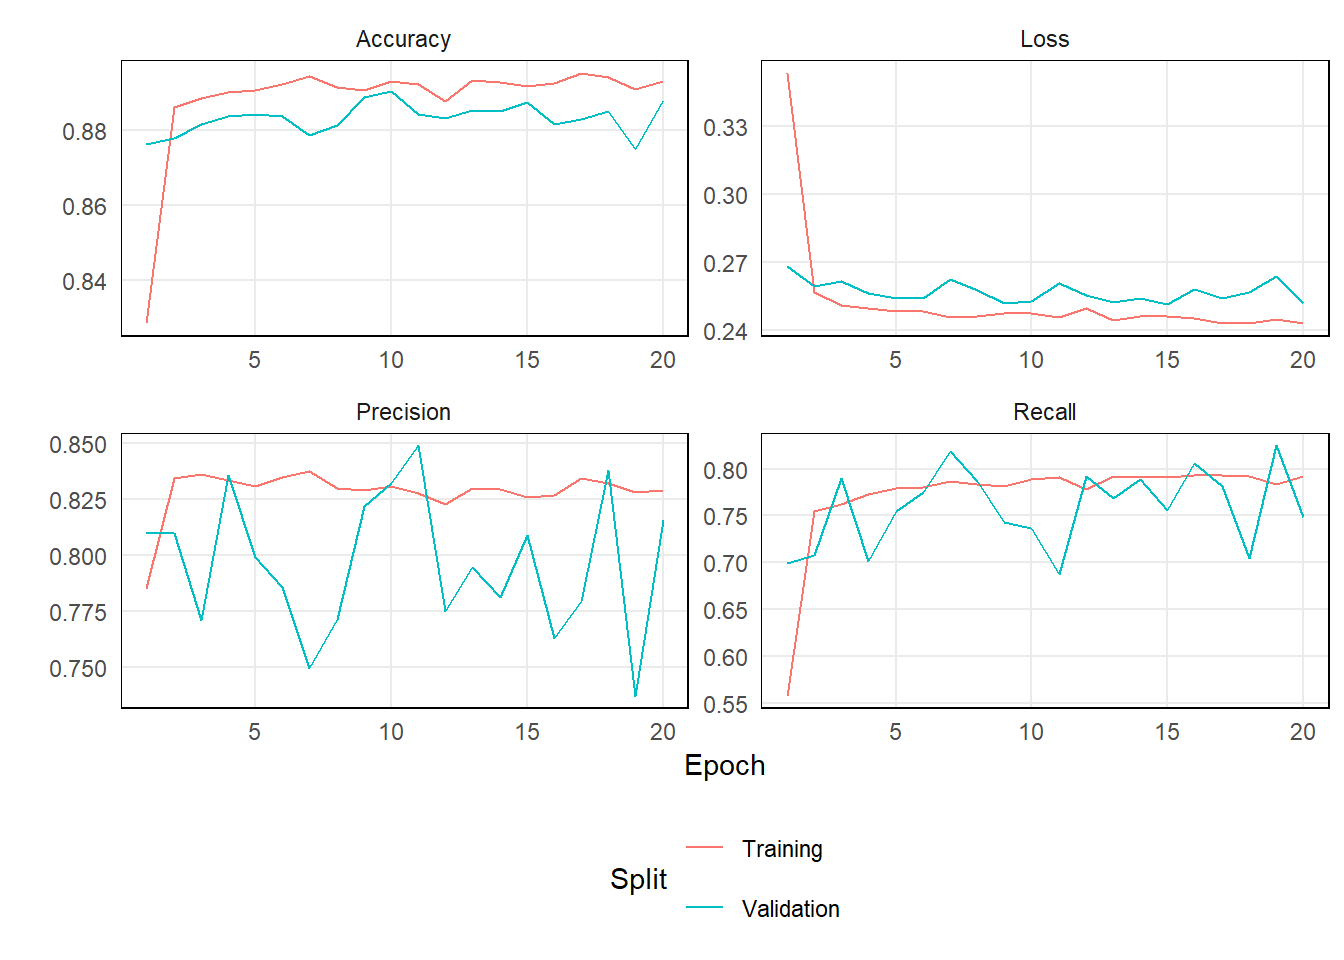
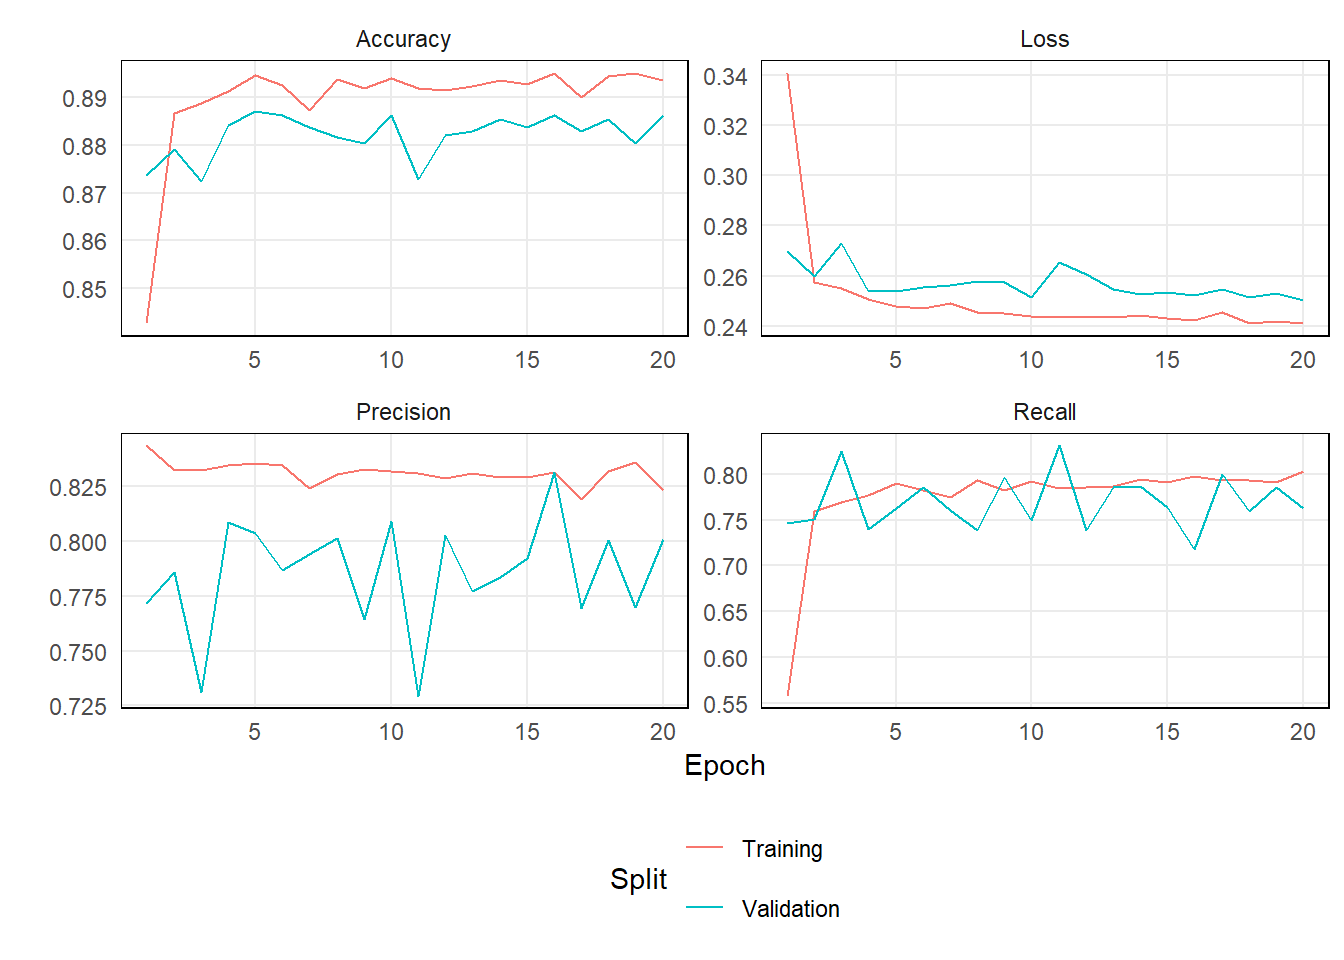
fixed pipes

diff --git a/content/post/2024-01-13-quick-start-guide-to-neural-networks-in-r-with-keras-and-tensorflow/index.html b/content/post/2024-01-13-quick-start-guide-to-neural-networks-in-r-with-keras-and-tensorflow/index.html
@@ -5,8 +5,12 @@ date: '2024-01-12'
 slug: []
 categories:
   - Neural Networks
+  - Machine Learning
+  - Data Science
 tags:
   - Neural Networks
+  - Machine Learning
+  - Data Science
 cover: /media/tfk.png
 ---
 
@@ -23,7 +27,7 @@ cover: /media/tfk.png
 <h2>Prerequisites</h2>
 <p>Since {Keras} is a Python-based package, you’ll need to ensure you have Python installed. You can download Python from <a href="https://www.python.org/downloads/">the official Python website</a>. After setting up Python, you’ll need to install Keras and {TensorFlow} in R. The following explanation, taken from the {Keras} documentation, details the installation process:</p>
 <blockquote>
-<p>This function will install Tensorflow and all Keras dependencies. This is a thin wrapper around <code>tensorflow::install_tensorflow()</code>, with the only difference being that this includes by default additional extra packages that keras expects, and the default version of tensorflow installed by <code>install_keras()</code> may at times be different from the default installed by <code>install_tensorflow()</code>. The default version of tensorflow installed by <code>install_keras()</code> is “2.13”.</p>
+<p>This function will install Tensorflow and all Keras dependencies. This is a thin wrapper around <code>tensorflow::install_tensorflow()</code>, with the only difference being that this includes by default additional extra packages that keras expects, and the default version of tensorflow installed by <code>install_keras()</code> may at times be different from the default installed by <code>install_tensorflow()</code>.</p>
 </blockquote>
 <pre class="r"><code>install.packages(&quot;keras&quot;)
 install_keras()</code></pre>
@@ -534,19 +538,19 @@ data &lt;- tibble(
 </div>
 <div id="neural-network" class="section level2">
 <h2>Neural Network</h2>
-<p><strong>Split into test and train</strong></p>
-<pre class="r"><code>library(keras)</code></pre>
-<pre><code>## Warning: package &#39;keras&#39; was built under R version 4.3.2</code></pre>
-<pre class="r"><code>set.seed(0)
+<p><strong>Split into Test and Train</strong></p>
+<pre class="r"><code>library(keras)
+
+set.seed(0)
 
 split_index &lt;- sample(1:nrow(data), size = 0.8 * nrow(data))
 train_data &lt;- data[split_index, ]
 test_data &lt;- data[-split_index, ]</code></pre>
 <div id="define-the-model-architecture" class="section level3">
 <h3>Define the Model Architecture</h3>
-<pre class="r"><code>model &lt;- keras_model_sequential() %&gt;%
-  layer_dense(units = 100, activation = &#39;relu&#39;, input_shape = ncol(train_data) - 1) %&gt;%
-  layer_dense(units = 100, activation = &#39;relu&#39;) %&gt;%
+<pre class="r"><code>model &lt;- keras_model_sequential() |&gt;
+  layer_dense(units = 100, activation = &#39;relu&#39;, input_shape = ncol(train_data) - 1) |&gt;
+  layer_dense(units = 100, activation = &#39;relu&#39;) |&gt;
   layer_dense(units = 1, activation = &#39;sigmoid&#39;)</code></pre>
 <p><strong>Model Architecture Details</strong></p>
 <ul>
@@ -568,9 +572,9 @@ test_data &lt;- data[-split_index, ]</code></pre>
 </ul>
 </div>
 <div id="compile-the-model" class="section level3">
-<h3>Compile the model</h3>
+<h3>Compile the Model</h3>
 <p>The next block of code “compiles” the model and configures it for training. It sets up up the optimizer, loss function, and metrics:</p>
-<pre class="r"><code>model %&gt;% compile(
+<pre class="r"><code>model |&gt; compile(
   optimizer = &#39;adam&#39;,
   loss = &#39;binary_crossentropy&#39;,
   metrics = c(&#39;accuracy&#39;, 
@@ -606,9 +610,9 @@ test_data &lt;- data[-split_index, ]</code></pre>
 </div>
 </div>
 <div id="fitting-the-model" class="section level2">
-<h2>Fitting the model</h2>
+<h2>Fitting the Model</h2>
 <p>The following code block is for fitting (training) the neural network model. It specifies the training data, number of training cycles (epochs), and other important parameters:</p>
-<pre class="r"><code>history &lt;- model %&gt;% fit(
+<pre class="r"><code>history &lt;- model |&gt; fit(
   x = as.matrix(train_data[,-7]),
   y = as.matrix(train_data[,7]),
   epochs = 20,
@@ -656,12 +660,12 @@ test_data &lt;- data[-split_index, ]</code></pre>
 test_data |&gt; mutate(predictions = predict(model, as.matrix(test_data[,-7]), verbose = 0)[,1]) |&gt; 
   mutate(binary_prediction = as.factor(ifelse(predictions &gt; .5,1,0))) </code></pre>
 <div id="evaluating-the-model" class="section level2">
-<h2>Evaluating the model</h2>
+<h2>Evaluating the Model</h2>
 <p>We can find the accuracy, prediction, and recall using {keras} or…</p>
-<pre class="r"><code>out &lt;- model %&gt;% evaluate(as.matrix(test_data[,-7]), test_data[,7]$outcome, verbose = FALSE) 
+<pre class="r"><code>out &lt;- model |&gt; evaluate(as.matrix(test_data[,-7]), test_data[,7]$outcome, verbose = FALSE) 
 out </code></pre>
 <pre><code>##      loss  accuracy precision    recall 
-## 0.2398572 0.8923611 0.8254620 0.7528090</code></pre>
+## 0.2405091 0.8963293 0.8256513 0.7715356</code></pre>
 <p>…using {yardstick}.</p>
 <pre class="r"><code>library(yardstick)
 classification_metrics &lt;- metric_set(accuracy, precision, recall)
@@ -1123,13 +1127,13 @@ test_data_w_preds |&gt;
   <tbody class="gt_table_body">
     <tr><td headers=".metric" class="gt_row gt_left">accuracy</td>
 <td headers=".estimator" class="gt_row gt_left">binary</td>
-<td headers=".estimate" class="gt_row gt_right">89.15%</td></tr>
+<td headers=".estimate" class="gt_row gt_right">89.55%</td></tr>
     <tr><td headers=".metric" class="gt_row gt_left">precision</td>
 <td headers=".estimator" class="gt_row gt_left">binary</td>
-<td headers=".estimate" class="gt_row gt_right">91.28%</td></tr>
+<td headers=".estimate" class="gt_row gt_right">91.87%</td></tr>
     <tr><td headers=".metric" class="gt_row gt_left">recall</td>
 <td headers=".estimator" class="gt_row gt_left">binary</td>
-<td headers=".estimate" class="gt_row gt_right">94.20%</td></tr>
+<td headers=".estimate" class="gt_row gt_right">94.07%</td></tr>
   </tbody>
   
   
@@ -1139,7 +1143,7 @@ test_data_w_preds |&gt;
 <p><img src="{{< blogdown/postref >}}index_files/figure-html/unnamed-chunk-13-1.png" width="672" /></p>
 </div>
 <div id="thats-a-wrap" class="section level2">
-<h2>That’s a wrap</h2>
+<h2>That’s a Wrap</h2>
 <p>I’ve tried to provide step-by-step introductions to implement a neural network for in R using the {Keras} package. We walked through generating reproducible sample data, defining a simple neural network architecture, training the model, making predictions on new data, and evaluating model performance. This guide should equip beginners with the initial skills needed to start building and applying neural networks to their own tabular data.</p>
 <p>While neural networks can appear complex, breaking the process down into digestible steps makes them more accessible. With the right data preprocessing, model configuration, training parameters and performance metrics, neural networks can be powerful tools for tackling complex data patterns. The R ecosystem, with packages like {Keras} and {Tensorflow}, provides a convenient platform for leveraging the strengths of neural networks. By following this guide and adjusting the components to their specific use case, you should now (hopefully) be able to start neural network modeling in R.</p>
 </div>

diff --git a/content/post/2021-12-01-advent-of-code-2021/index.html b/content/post/2021-12-01-advent-of-code-2021/index.html
@@ -5,7 +5,7 @@ date: '2021-12-01'
 slug: []
 categories:
   - R
-  - datascience
+  - Data Science
   - learning
   - teaching
 tags:
@@ -16,7 +16,6 @@ tags:
 cover: /media/advent2.JPG
 ---
 
-<script src="{{< blogdown/postref >}}index_files/header-attrs/header-attrs.js"></script>
 
 
 <p>Every year, the great team at <a href="adventofcode.com">Advent of Code</a> lead by <a href="https://twitter.com/ericwastl">ericwastl</a> develops an “Advent calendar of small programming puzzles for a variety of skill sets and skill levels that can be solved in any programming language you like.”</p>
@@ -1214,34 +1213,43 @@ tictoc::toc()</code></pre>
   separate(col = directions, into = c(&quot;x1&quot;, &quot;y1&quot;, &quot;x2&quot;, &quot;y2&quot;), sep = &quot;,&quot;, convert = T) %&gt;% 
   select(x1,x2,y1,y2) 
 
-create_lines &lt;- function(move){
+create_lines &lt;- function(lines){
+
+move &lt;- lines
 
 if(move$y1==move$y2) {
   xlow  &lt;- min(move$x1, min(move$x2))
   xhigh &lt;- max(move$x1, min(move$x2))
   ylow  &lt;- min(move$y1, min(move$y2))
   yhigh &lt;- max(move$y1, min(move$y2))
-  byrow &lt;- T # for horizontal vents
+  byrow &lt;- T
 } else if (move$x1 == move$x2) {
   ylow  &lt;- min(move$x1, min(move$x2))
   yhigh &lt;- max(move$x1, min(move$x2))
   xlow  &lt;- min(move$y1, min(move$y2))
   xhigh &lt;- max(move$y1, min(move$y2))
-  byrow &lt;- F # for vertical vents
+  byrow &lt;- F
 }
-out &lt;- matrix(c(
-  rep(rep(0,1000),ylow), ## zeroes before row/col
-  c(rep(0,xlow),rep(1,xhigh-xlow+1), rep(0,999-xhigh)), ## row/col of 1s
-  rep(rep(0,1000),999-ylow) ## zeroes after row/col
-  ), byrow = byrow, nrow = 1000, ncol = 1000)
+
+out &lt;-
+  matrix(
+    c(
+      rep(rep(0,1000),ylow), ## zeroes before row/col
+      c(rep(0,xlow),rep(1,xhigh-xlow+1), rep(0,999-xhigh)), ## row/col of 1s
+      rep(rep(0,1000),999-ylow) ## zeroes after row/col
+      ), byrow = byrow, nrow = 1000, ncol = 1000
+    )
+
 return(out)
+
 }
 
 movements %&gt;% 
   filter(x1==x2 | y1==y2) %&gt;% 
   group_split(row_number(), .keep = F) %&gt;% 
   purrr::map(~create_lines(lines = .x)) %&gt;% 
-  reduce(`+`) %&gt;% as_tibble() %&gt;% 
+  reduce(`+`) %&gt;% 
+  as_tibble() %&gt;% 
   pivot_longer(cols = everything()) %&gt;% 
   filter(value &gt;=2) %&gt;% 
   count()</code></pre>
